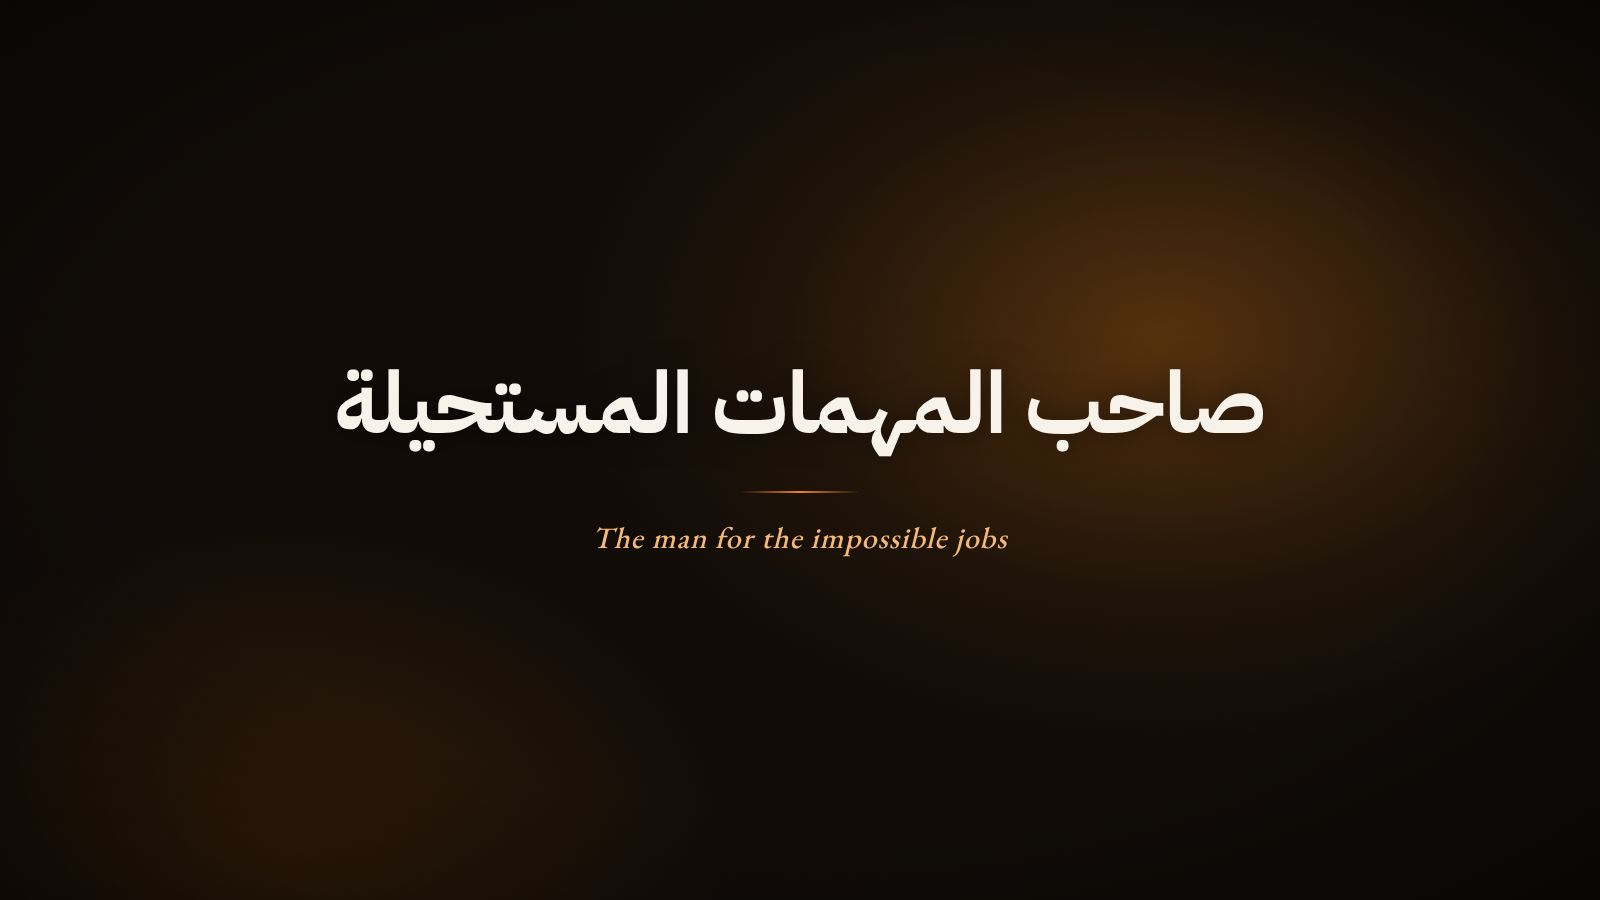
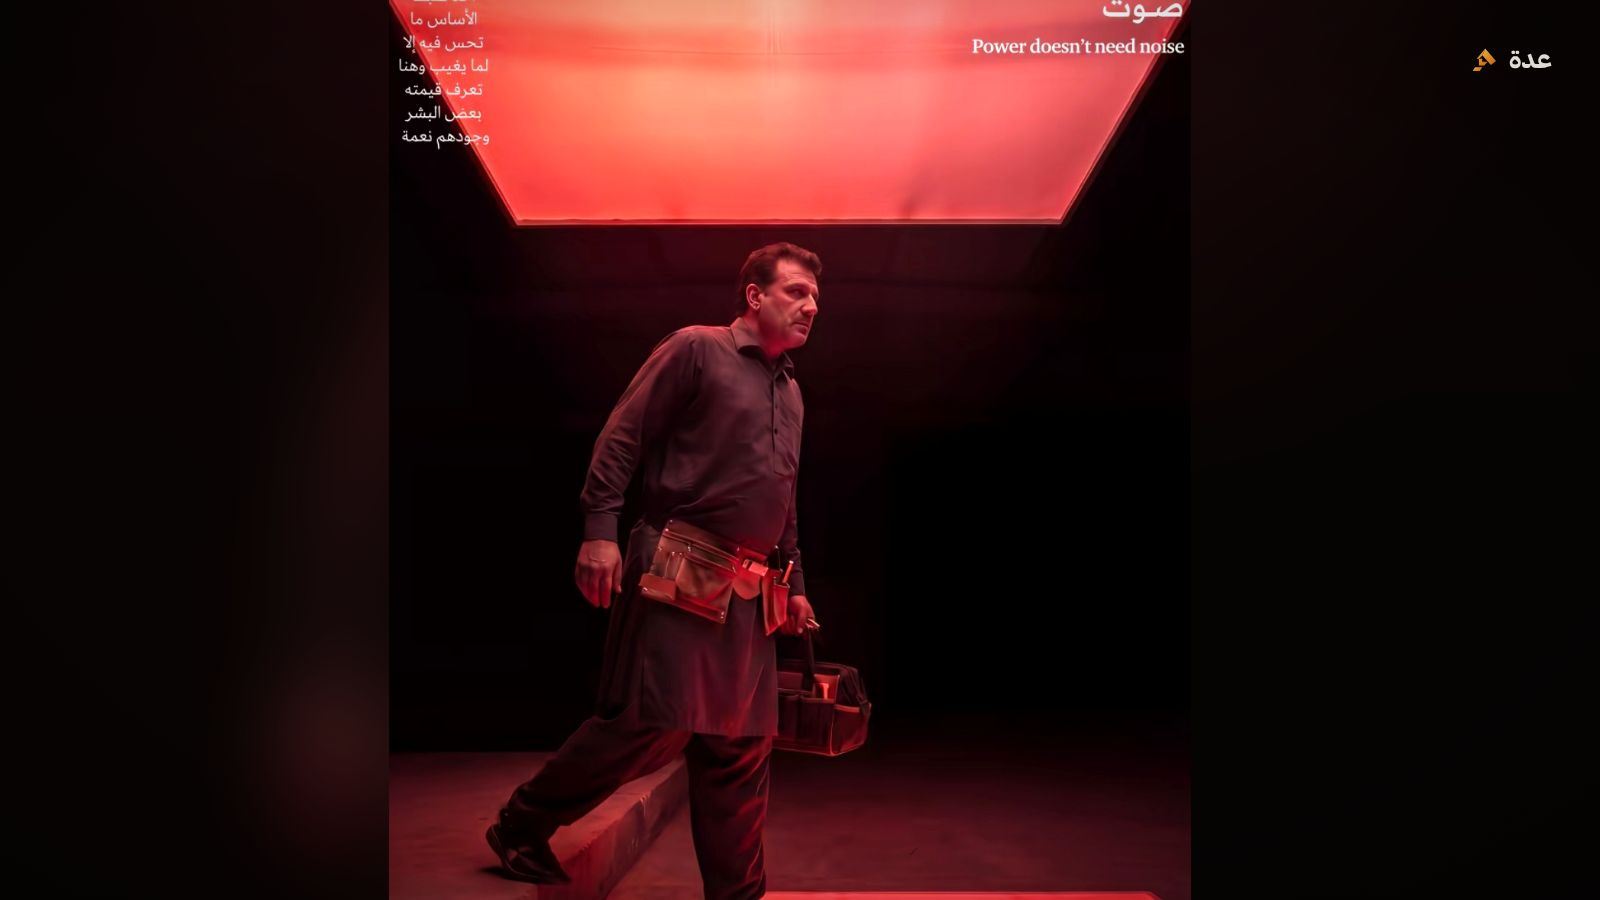
feat: integrate real brand creatives + cinematic photo-montage film
The user provided the real @user.alhawiyah creatives. Cropped the phone
chrome out and wired them in:

- Hero now uses the real cinematic "القوة اللي ما تحتاج صوت" image (master.jpg).
- Showcase rows use the floating-tools and tool-bag creatives.
- Removed the duplicate Services products band (image now anchors Showcase).
- Rebuilt the Remotion brand film as a cinematic montage of the three real
  photos — Ken Burns motion, blurred fills, crossfades, grain, vignette, a
  persistent عدة brand bug, and a logo close. Re-encoded web-optimized
  (1280x720, ~1.2MB) into public/brand/brand-loop.mp4.

Raw screenshots (IMG_*.PNG) removed in favour of the cropped named JPGs.

https://claude.ai/code/session_01JprWvmBPn2wB9MQLMaRD7W

diff --git a/eddah-motion/src/BrandFilm.tsx b/eddah-motion/src/BrandFilm.tsx
@@ -1,18 +1,17 @@
 import {
   AbsoluteFill,
   Sequence,
+  Img,
+  staticFile,
   useCurrentFrame,
   useVideoConfig,
   interpolate,
-  staticFile,
-  random,
 } from "remotion";
 import { loadFont as loadArabic } from "@remotion/fonts";
 
 const AR = "IBM Plex Sans Arabic";
 const SERIF = "EB Garamond";
 
-// Load fonts inside render context (staticFile is undefined at module-eval).
 let fontsRequested = false;
 function ensureFonts() {
   if (fontsRequested) return;
@@ -21,151 +20,133 @@ function ensureFonts() {
   loadArabic({ family: AR, url: staticFile("fonts/ibm-plex-sans-arabic-arabic-600-normal.woff2"), weight: "600" });
   loadArabic({ family: AR, url: staticFile("fonts/ibm-plex-sans-arabic-arabic-700-normal.woff2"), weight: "700" });
   loadArabic({ family: SERIF, url: staticFile("fonts/eb-garamond-latin-400-normal.woff2"), weight: "400" });
-  loadArabic({ family: SERIF, url: staticFile("fonts/eb-garamond-latin-500-normal.woff2"), weight: "500" });
 }
 
-const ORANGE = "#F0851A";
-const ORANGE_LIGHT = "#F6B877";
-const ORANGE_DEEP = "#DC6E0B";
+const ORANGE_LIGHT = "#FFC74D";
+const ORANGE_DEEP = "#DD6A06";
 
-const EASE = (t: number) => 1 - Math.pow(1 - t, 3); // expo-ish out
+// scene timing (frames) — overlapping for crossfade
+const D = 116; // per-photo scene length
+const OVER = 16; // crossfade overlap
+
+const photos = [
+  { src: "brand/master.jpg", kx: -1, ky: -1 },
+  { src: "brand/tools-float.jpg", kx: 1, ky: 1 },
+  { src: "brand/products.jpg", kx: -1, ky: 1 },
+];
 
 export const BrandFilm: React.FC = () => {
   ensureFonts();
   return (
-    <AbsoluteFill style={{ backgroundColor: "#100B07" }}>
-      <Backdrop />
+    <AbsoluteFill style={{ backgroundColor: "#0E0A07" }}>
+      {photos.map((p, i) => (
+        <Sequence key={i} from={i * (D - OVER)} durationInFrames={D} layout="none">
+          <PhotoScene src={p.src} kx={p.kx} ky={p.ky} dur={D} />
+        </Sequence>
+      ))}
+      <Sequence from={3 * (D - OVER)} durationInFrames={120} layout="none">
+        <LogoScene dur={120} />
+      </Sequence>
+
+      {/* persistent cinematic treatment */}
       <Grain />
       <Vignette />
-
-      <Sequence from={0} durationInFrames={96} layout="none">
-        <Caption ar="صاحب المهمات المستحيلة" en="The man for the impossible jobs" />
-      </Sequence>
-      <Sequence from={90} durationInFrames={96} layout="none">
-        <Caption ar="دقّة لا تغلط" en="Precision that never misses" />
-      </Sequence>
-      <Sequence from={180} durationInFrames={96} layout="none">
-        <Caption ar="ثقة لا تتسرّب" en="Trust that never leaks" />
-      </Sequence>
-      <Sequence from={276} durationInFrames={84} layout="none">
-        <LogoScene />
-      </Sequence>
+      <BrandBug />
     </AbsoluteFill>
   );
 };
 
-const Backdrop: React.FC = () => {
+const PhotoScene: React.FC<{ src: string; kx: number; ky: number; dur: number }> = ({ src, kx, ky, dur }) => {
   const frame = useCurrentFrame();
-  const { durationInFrames } = useVideoConfig();
-  const p = (frame / durationInFrames) * Math.PI * 2;
-  // slow cinematic camera drift + breathing warm rim light
-  const gx = 64 + 10 * Math.sin(p);
-  const gy = 32 + 8 * Math.cos(p * 0.8);
-  const zoom = 1.06 + 0.04 * Math.sin(p * 0.5);
-  // light-leak sweep position (loops)
-  const leak = ((frame / durationInFrames) * 160 - 30);
+  const t = frame / dur;
+  // Ken Burns: slow zoom + drift
+  const scale = interpolate(t, [0, 1], [1.06, 1.16]);
+  const tx = kx * interpolate(t, [0, 1], [0, 22]);
+  const ty = ky * interpolate(t, [0, 1], [0, 18]);
+  const opacity =
+    interpolate(frame, [0, 16], [0, 1], { extrapolateLeft: "clamp", extrapolateRight: "clamp" }) *
+    interpolate(frame, [dur - 16, dur], [1, 0], { extrapolateLeft: "clamp", extrapolateRight: "clamp" });
+
   return (
-    <AbsoluteFill style={{ transform: `scale(${zoom})` }}>
-      <AbsoluteFill style={{ backgroundColor: "#100B07" }} />
-      <AbsoluteFill
-        style={{
-          background: `radial-gradient(50% 60% at ${gx}% ${gy}%, rgba(240,133,26,0.30), rgba(240,133,26,0.06) 45%, transparent 70%)`,
-        }}
-      />
-      <AbsoluteFill
-        style={{
-          background: `radial-gradient(40% 50% at 20% 90%, rgba(220,110,11,0.16), transparent 65%)`,
-        }}
-      />
-      {/* warm light-leak streak */}
-      <AbsoluteFill
-        style={{
-          background: `linear-gradient(115deg, transparent ${leak - 14}%, rgba(246,184,119,0.16) ${leak}%, transparent ${leak + 14}%)`,
-          mixBlendMode: "screen",
-        }}
-      />
+    <AbsoluteFill style={{ opacity }}>
+      {/* blurred fill background (covers 16:9 behind the portrait) */}
+      <AbsoluteFill>
+        <Img src={staticFile(src)} style={{ width: "100%", height: "100%", objectFit: "cover", filter: "blur(34px) brightness(0.7)", transform: "scale(1.25)" }} />
+      </AbsoluteFill>
+      <AbsoluteFill style={{ backgroundColor: "rgba(14,10,7,0.34)" }} />
+      {/* sharp contained image with Ken Burns */}
+      <AbsoluteFill style={{ alignItems: "center", justifyContent: "center" }}>
+        <Img
+          src={staticFile(src)}
+          style={{
+            height: "100%",
+            maxWidth: "100%",
+            objectFit: "contain",
+            transform: `scale(${scale}) translate(${tx}px, ${ty}px)`,
+            filter: "brightness(1.08) contrast(1.02)",
+          }}
+        />
+      </AbsoluteFill>
+    </AbsoluteFill>
+  );
+};
+
+const LogoScene: React.FC<{ dur: number }> = ({ dur }) => {
+  const frame = useCurrentFrame();
+  const enter = interpolate(frame, [0, 26], [0, 1], { extrapolateLeft: "clamp", extrapolateRight: "clamp" });
+  const ease = 1 - Math.pow(1 - enter, 3);
+  const opacity = interpolate(frame, [0, 20], [0, 1], { extrapolateLeft: "clamp", extrapolateRight: "clamp" });
+  const s = 0.9 + ease * 0.1;
+  return (
+    <AbsoluteFill style={{ backgroundColor: "#0E0A07" }}>
+      <AbsoluteFill style={{ background: "radial-gradient(55% 60% at 50% 42%, rgba(242,130,12,0.22), transparent 70%)" }} />
+      <AbsoluteFill style={{ alignItems: "center", justifyContent: "center" }}>
+        <div style={{ opacity, transform: `scale(${s})`, display: "flex", flexDirection: "column", alignItems: "center", textAlign: "center" }}>
+          <Mark size={112} />
+          <div style={{ direction: "rtl", fontFamily: AR, fontWeight: 700, fontSize: 80, color: "#F7F2EA", marginTop: 22, letterSpacing: "-0.03em" }}>عدة</div>
+          <div style={{ direction: "rtl", fontFamily: AR, fontWeight: 600, fontSize: 34, color: ORANGE_LIGHT, marginTop: 10 }}>فنّيك في حيّك</div>
+          <div style={{ direction: "rtl", fontFamily: AR, fontWeight: 400, fontSize: 22, color: "#A89A86", marginTop: 14, letterSpacing: "0.06em" }}>حي لبن — الرياض</div>
+        </div>
+      </AbsoluteFill>
     </AbsoluteFill>
   );
 };
 
 const Vignette: React.FC = () => (
-  <AbsoluteFill
-    style={{
-      background:
-        "radial-gradient(75% 75% at 50% 48%, transparent 55%, rgba(0,0,0,0.55) 100%)",
-      pointerEvents: "none",
-    }}
-  />
+  <AbsoluteFill style={{ background: "radial-gradient(78% 78% at 50% 48%, transparent 56%, rgba(0,0,0,0.5) 100%)", pointerEvents: "none" }} />
 );
 
 const Grain: React.FC = () => {
   const frame = useCurrentFrame();
-  const seed = Math.floor(frame) % 12; // re-seed for live grain flicker
+  const seed = Math.floor(frame) % 12;
   return (
-    <AbsoluteFill style={{ opacity: 0.07, mixBlendMode: "overlay", pointerEvents: "none" }}>
+    <AbsoluteFill style={{ opacity: 0.06, mixBlendMode: "overlay", pointerEvents: "none" }}>
       <svg width="100%" height="100%">
-        <filter id={`grain${seed}`}>
+        <filter id={`g${seed}`}>
           <feTurbulence type="fractalNoise" baseFrequency="0.9" numOctaves="2" seed={seed} stitchTiles="stitch" />
         </filter>
-        <rect width="100%" height="100%" filter={`url(#grain${seed})`} />
+        <rect width="100%" height="100%" filter={`url(#g${seed})`} />
       </svg>
     </AbsoluteFill>
   );
 };
 
-const Caption: React.FC<{ ar: string; en: string }> = ({ ar, en }) => {
-  const frame = useCurrentFrame();
-  const { durationInFrames } = useVideoConfig();
-  const enter = interpolate(frame, [0, 22], [0, 1], { extrapolateLeft: "clamp", extrapolateRight: "clamp" });
-  const exit = interpolate(frame, [durationInFrames - 20, durationInFrames], [1, 0], { extrapolateLeft: "clamp", extrapolateRight: "clamp" });
-  const o = EASE(enter) * exit;
-  const y = (1 - EASE(enter)) * 24;
-  const blur = (1 - EASE(enter)) * 10;
-  const lineW = interpolate(frame, [10, 40], [0, 120], { extrapolateLeft: "clamp", extrapolateRight: "clamp" });
-
-  return (
-    <AbsoluteFill style={{ alignItems: "center", justifyContent: "center" }}>
-      <div style={{ textAlign: "center", opacity: o, transform: `translateY(${y}px)`, filter: `blur(${blur}px)` }}>
-        <div style={{ direction: "rtl", fontFamily: AR, fontWeight: 700, fontSize: 86, color: "#F7F2EA", letterSpacing: "-0.02em", textShadow: "0 2px 30px rgba(0,0,0,0.5)" }}>
-          {ar}
-        </div>
-        <div style={{ height: 2, width: lineW, margin: "22px auto", background: `linear-gradient(90deg, transparent, ${ORANGE}, transparent)` }} />
-        <div style={{ fontFamily: SERIF, fontWeight: 500, fontStyle: "italic", fontSize: 30, color: ORANGE_LIGHT, letterSpacing: "0.04em" }}>
-          {en}
-        </div>
-      </div>
-    </AbsoluteFill>
-  );
-};
-
-const LogoScene: React.FC = () => {
-  const frame = useCurrentFrame();
-  const { durationInFrames } = useVideoConfig();
-  const enter = interpolate(frame, [0, 26], [0, 1], { extrapolateLeft: "clamp", extrapolateRight: "clamp" });
-  const exit = interpolate(frame, [durationInFrames - 22, durationInFrames], [1, 0], { extrapolateLeft: "clamp", extrapolateRight: "clamp" });
-  const o = EASE(enter) * exit;
-  const s = 0.9 + EASE(enter) * 0.1;
-  return (
-    <AbsoluteFill style={{ alignItems: "center", justifyContent: "center" }}>
-      <div style={{ textAlign: "center", opacity: o, transform: `scale(${s})`, display: "flex", flexDirection: "column", alignItems: "center" }}>
-        <Mark size={108} />
-        <div style={{ direction: "rtl", fontFamily: AR, fontWeight: 700, fontSize: 78, color: "#F7F2EA", marginTop: 22, letterSpacing: "-0.03em" }}>عدة</div>
-        <div style={{ direction: "rtl", fontFamily: AR, fontWeight: 600, fontSize: 34, color: ORANGE_LIGHT, marginTop: 10 }}>فنّيك في حيّك</div>
-        <div style={{ direction: "rtl", fontFamily: AR, fontWeight: 400, fontSize: 22, color: "#A89A86", marginTop: 14, letterSpacing: "0.06em" }}>حي لبن — الرياض</div>
-      </div>
-    </AbsoluteFill>
-  );
-};
+const BrandBug: React.FC = () => (
+  <div style={{ position: "absolute", top: 40, right: 48, display: "flex", alignItems: "center", gap: 10, opacity: 0.9 }}>
+    <Mark size={30} />
+    <span style={{ fontFamily: AR, fontWeight: 700, fontSize: 26, color: "#F7F2EA" }}>عدة</span>
+  </div>
+);
 
 const Mark: React.FC<{ size: number }> = ({ size }) => (
   <svg width={size} height={size} viewBox="0 0 100 100">
     <defs>
-      <linearGradient id="filmCopper" x1="0" y1="0" x2="1" y2="1">
+      <linearGradient id="filmCopper2" x1="0" y1="0" x2="1" y2="1">
         <stop offset="0" stopColor={ORANGE_LIGHT} />
         <stop offset="1" stopColor={ORANGE_DEEP} />
       </linearGradient>
     </defs>
-    <g fill="url(#filmCopper)">
+    <g fill="url(#filmCopper2)">
       <path d="M54 12 L90 53 L73 67 L45 35 Z" />
       <path d="M54 12 L26 46 L44 46 L44 56 L62 56 L51 68 L33 68 L33 46 L45 35 Z" />
       <path d="M20 74 L44 74 L36 87 L12 87 Z" />

diff --git a/eddah-landing/src/components/sections/Services.tsx b/eddah-landing/src/components/sections/Services.tsx
@@ -5,8 +5,7 @@ import { Container } from "@/components/ui/Container";
 import { SectionHeading } from "@/components/ui/SectionHeading";
 import { Reveal } from "@/components/ui/Reveal";
 import { PlumbingIcon, ElectricalIcon, CoolingIcon } from "@/components/icons/ServiceIcons";
-import { ArrowIcon, CheckIcon } from "@/components/icons/Icons";
-import { BrandImage } from "@/components/ui/BrandImage";
+import { ArrowIcon } from "@/components/icons/Icons";
 import { whatsappLink } from "@/lib/brand";
 
 const services = [
@@ -90,36 +89,6 @@ export function Services() {
             </Reveal.Item>
           ))}
         </Reveal.Group>
-
-        {/* Products / tools band */}
-        <Reveal className="mt-5">
-          <div className="card grid items-center gap-8 overflow-hidden p-7 md:grid-cols-2 md:p-9">
-            <div>
-              <span className="eyebrow">
-                <span className="h-1.5 w-1.5 rounded-full bg-orange-500" />
-                أدوات ومنتجات
-              </span>
-              <h3 className="mt-4 text-balance text-2xl font-bold leading-snug text-ink md:text-[30px]">
-                نأتي مجهّزين بالأداة المناسبة لكل مهمة
-              </h3>
-              <p className="pretty mt-4 text-[15.5px] leading-relaxed text-ink-600">
-                قطع ومنتجات موثوقة وأدوات احترافية — حتى تُنجَز الخدمة من أول
-                زيارة، بجودة تدوم ولا تعيد المشكلة بعد أيام.
-              </p>
-              <ul className="mt-6 grid gap-2.5 sm:grid-cols-2">
-                {["قطع غيار أصلية", "أدوات احترافية", "تشخيص دقيق", "ضمان على التنفيذ"].map((t) => (
-                  <li key={t} className="flex items-center gap-2.5 text-[14.5px] text-ink-700">
-                    <span className="grid h-5 w-5 shrink-0 place-items-center rounded-full bg-orange-100 text-orange-600">
-                      <CheckIcon className="h-3 w-3" />
-                    </span>
-                    {t}
-                  </li>
-                ))}
-              </ul>
-            </div>
-            <BrandImage image="products" className="aspect-square w-full rounded-[1.5rem] ring-1 ring-clay-200" />
-          </div>
-        </Reveal>
       </Container>
     </section>
   );

diff --git a/eddah-landing/src/components/sections/Showcase.tsx b/eddah-landing/src/components/sections/Showcase.tsx
@@ -20,29 +20,30 @@ type Feature = {
 
 const features: Feature[] = [
   {
-    image: "precision",
-    eyebrow: "إتقان التنفيذ",
+    image: "toolsFloat",
+    eyebrow: "إتقان التفاصيل",
     title: (
       <>
-        دقّة <span className="text-orange-gradient">لا تغلط</span>
+        اللي يفهم التفاصيل الصغيرة
+        <span className="text-orange-gradient"> يسيطر على الكبيرة</span>
       </>
     ),
-    body: "كل وصلة، وكل زاوية، وكل تفصيلة محسوبة. غلطة صغيرة قد تكلّفك كثيرًا، لذلك نبني كل عمل على دقّة لا تتحمّل الخطأ — لأن الاحتراف لا يعرف العشوائية.",
-    points: ["فحص قبل وبعد كل خدمة", "أدوات احترافية مناسبة لكل مهمة", "تسليم نظيف ومرتّب"],
-    aspect: "aspect-[4/3]",
+    body: "كل وصلة، وكل زاوية، وكل قطعة محسوبة. غلطة صغيرة قد تكلّفك كثيرًا، لذلك نبني كل عمل على دقّة لا تتحمّل الخطأ — بأدوات احترافية وأيدٍ تعرف ما تفعل.",
+    points: ["فحص قبل وبعد كل خدمة", "أدوات احترافية لكل مهمة", "تسليم نظيف ومرتّب"],
+    aspect: "aspect-[4/5]",
   },
   {
-    image: "trustWater",
+    image: "products",
     eyebrow: "موثوقية تستحقها",
     title: (
       <>
         ثقة <span className="text-orange-gradient">لا تتسرّب</span>
       </>
     ),
-    body: "مثل ما نمنع التسريب، نبني الثقة. تعتمد علينا فتعرف أن الموضوع انتهى وراحة البال في يدك — خدمة تتم بهدوء واحتراف، وتبقى نتيجتها معك.",
-    points: ["وضوح في السعر قبل البدء", "التزام بالموعد المتفق عليه", "متابعة بعد إتمام العمل"],
+    body: "تعتمد علينا فتعرف أن الموضوع انتهى وراحة البال في يدك. قطع موثوقة وتنفيذ هادئ محترف — خدمة تتم بثقة، وتبقى نتيجتها معك طويلًا.",
+    points: ["قطع وأدوات موثوقة", "التزام بالموعد المتفق عليه", "متابعة بعد إتمام العمل"],
     flip: true,
-    aspect: "aspect-[4/5]",
+    aspect: "aspect-[4/3]",
   },
 ];
 

diff --git a/eddah-landing/src/lib/brandImages.ts b/eddah-landing/src/lib/brandImages.ts
@@ -26,7 +26,7 @@ export type BrandImageMeta = {
 export const BRAND_IMAGES: Record<BrandImageKey, BrandImageMeta> = {
   master: {
     file: "master.jpg",
-    label: "صاحب المهمات المستحيلة",
+    label: "القوة اللي ما تحتاج صوت",
     tone: "dark",
   },
   toolsFloat: {

diff --git a/eddah-motion/src/Root.tsx b/eddah-motion/src/Root.tsx
@@ -8,7 +8,7 @@ export const RemotionRoot: React.FC = () => {
       <Composition
         id="BrandFilm"
         component={BrandFilm}
-        durationInFrames={360}
+        durationInFrames={420}
         fps={30}
         width={1600}
         height={900}